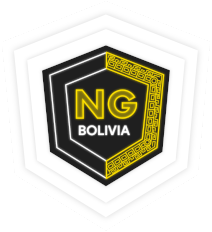
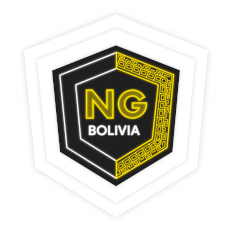
feat(conferences): add Angular Day. ngSpain ticketsUrl
fix PNG card layouts
allow conferences to not have a siteUrl
add logoType to conference metadata
move comma after city to the template

Changed region(s): [[0.1981, 0.181, 0.8208, 0.8147], [0.4528, 0.6638, 0.4811, 0.694]]

diff --git a/projects/web/src/app/conferences/conferences.component.ts b/projects/web/src/app/conferences/conferences.component.ts
@@ -8,35 +8,49 @@ import {Component, OnInit} from '@angular/core';
 export class ConferencesComponent implements OnInit {
   conferences = [
     {
+      name: 'Angular Day',
+      logoUrl: 'assets/angular-day-200x200.png',
+      logoType: 'png',
+      dateString: '27 de julio, 2019',
+      siteUrl: null,
+      ticketsUrl: 'https://www.eventbrite.com/e/angular-day-tickets-62401003080',
+      cfpUrl: null,
+      country: 'Colombia',
+      city: 'Medellin'
+    },
+    {
       name: 'NG Bolivia',
       logoUrl: 'assets/ng-bo.png',
+      logoType: 'png',
       dateString: '23 y 24 de agosto, 2019',
       siteUrl: 'https://ng-bolivia.org/',
       ticketsUrl: null,
       cfpUrl: null,
       country: 'Bolivia',
-      city: 'Cochabamba,'
+      city: 'Cochabamba'
     },
     {
       name: 'NG Honduras',
       logoUrl: 'https://ng-honduras.org/images/logo.svg',
+      logoType: 'svg',
       dateString: '18 y 19 de octubre, 2019',
       siteUrl: 'https://ng-honduras.org',
       ticketsUrl: null,
       cfpUrl:
           'https://docs.google.com/forms/d/e/1FAIpQLSej6MAID9G4DwH1YEFlEZuJK-5mGV3Tzq729XDh-OdEAR6qgQ/viewform',
       country: 'Honduras',
-      city: 'San Pedro Sula,'
+      city: 'San Pedro Sula'
     },
     {
       name: 'ngSpain',
       logoUrl: 'https://ngspain.com/images/logo.svg',
+      logoType: 'svg',
       dateString: '19 y 20 de octubre, 2019',
       siteUrl: 'https://ngspain.com/',
-      ticketsUrl: null,
+      ticketsUrl: 'https://ti.to/ngspain/2019',
       cfpUrl: null,
       country: 'España',
-      city: 'Madrid,'
+      city: 'Madrid'
     }
   ];
 

diff --git a/projects/web/src/app/conferences/conferences.component.html b/projects/web/src/app/conferences/conferences.component.html
@@ -6,16 +6,19 @@
         <mat-card>
           <mat-card-header>
             <mat-card-title>{{conference.name }}</mat-card-title>
-            <mat-card-subtitle>{{conference.city}} {{conference.country}}</mat-card-subtitle>
+            <mat-card-subtitle>{{conference.city}}, {{conference.country}}</mat-card-subtitle>
             <mat-card-subtitle>{{conference.dateString}}</mat-card-subtitle>
           </mat-card-header>
-          <img mat-card-image [src]="conference.logoUrl" [alt]="conference.name + ' logo'">
+          <img mat-card-image [src]="conference.logoUrl" [alt]="conference.name + ' logo'"
+               [ngClass]="conference.logoType">
           <mat-card-actions align="end">
-            <a mat-button [href]="conference.siteUrl" color="accent" rel="noopener" target="_blank">Sitio</a>
+            <a mat-button [href]="conference.siteUrl" *ngIf="conference.siteUrl" color="accent"
+               rel="noopener" target="_blank">Sitio</a>
             <a mat-button [href]="conference.ticketsUrl" *ngIf="conference.ticketsUrl"
-            color="accent" rel="noopener" target="_blank">Boletas</a>
+               color="accent" rel="noopener" target="_blank">Boletas</a>
             <a mat-button [href]="conference.cfpUrl" *ngIf="conference.cfpUrl"
-            color="accent" matTooltip="Convocatoria Para Presentadores" rel="noopener" target="_blank">CFP</a>
+               color="accent" matTooltip="Convocatoria Para Presentadores" rel="noopener"
+               target="_blank">CFP</a>
           </mat-card-actions>
         </mat-card>
       </a>

diff --git a/projects/web/src/app/conferences/conferences.component.scss b/projects/web/src/app/conferences/conferences.component.scss
@@ -31,8 +31,10 @@ main {
         }
 
         .mat-card-image {
-          width: 100%;
-          margin: auto;
+          &.svg {
+            width: 100%;
+            margin: auto;
+          }
         }
 
         .mat-card-actions {
